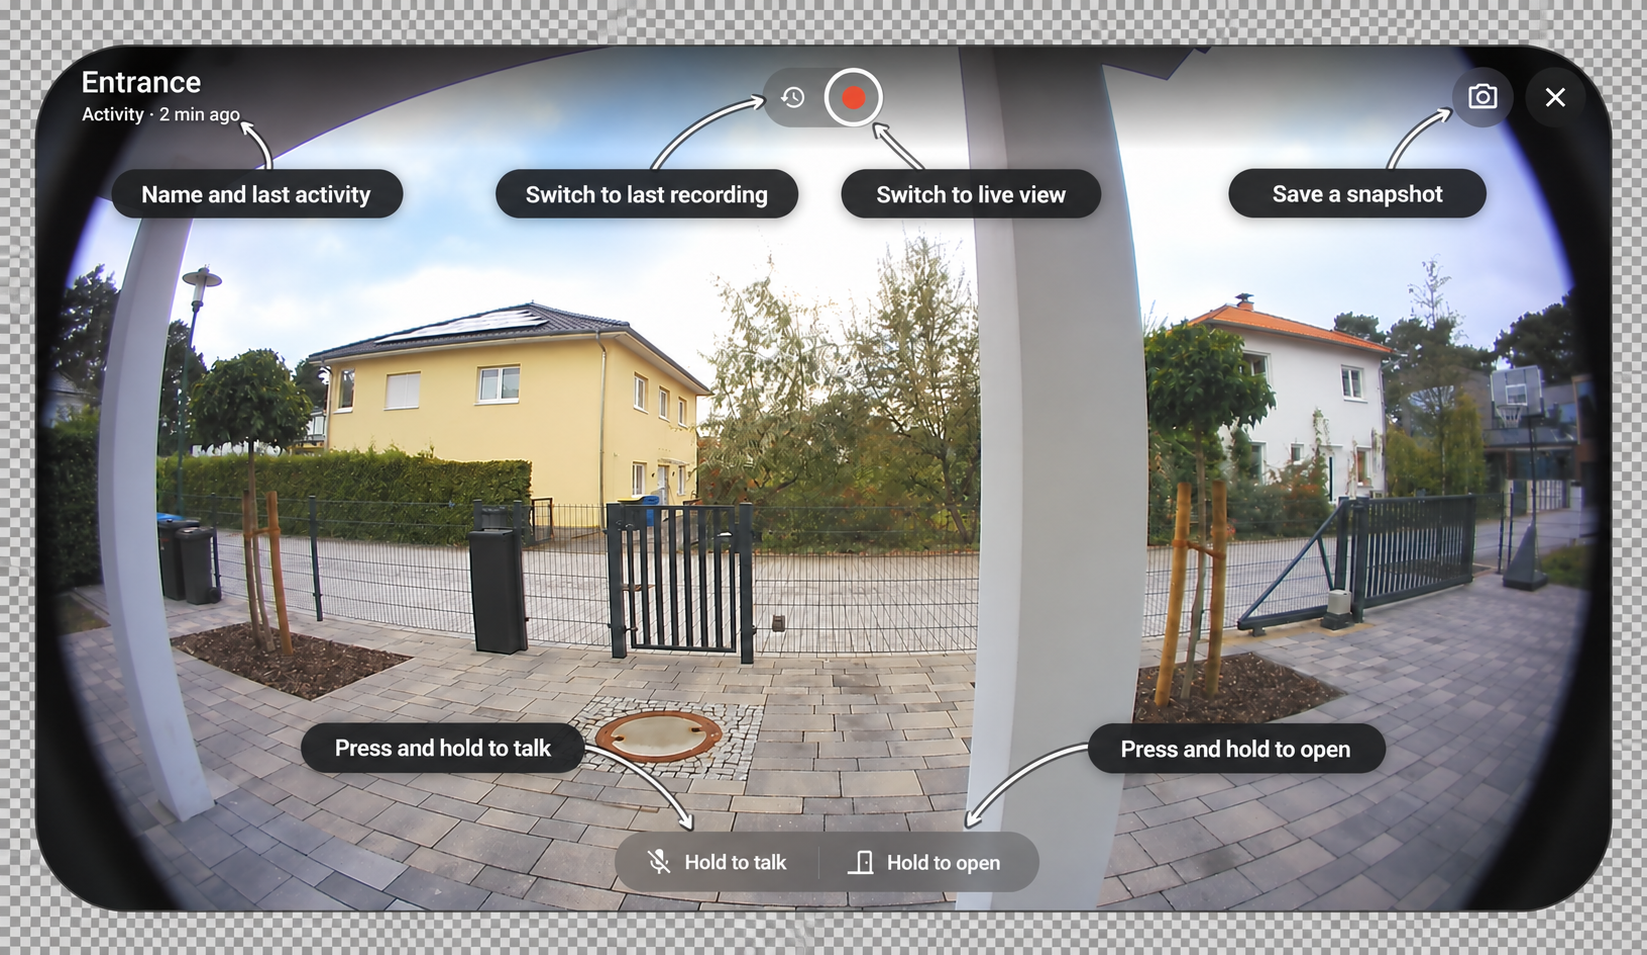
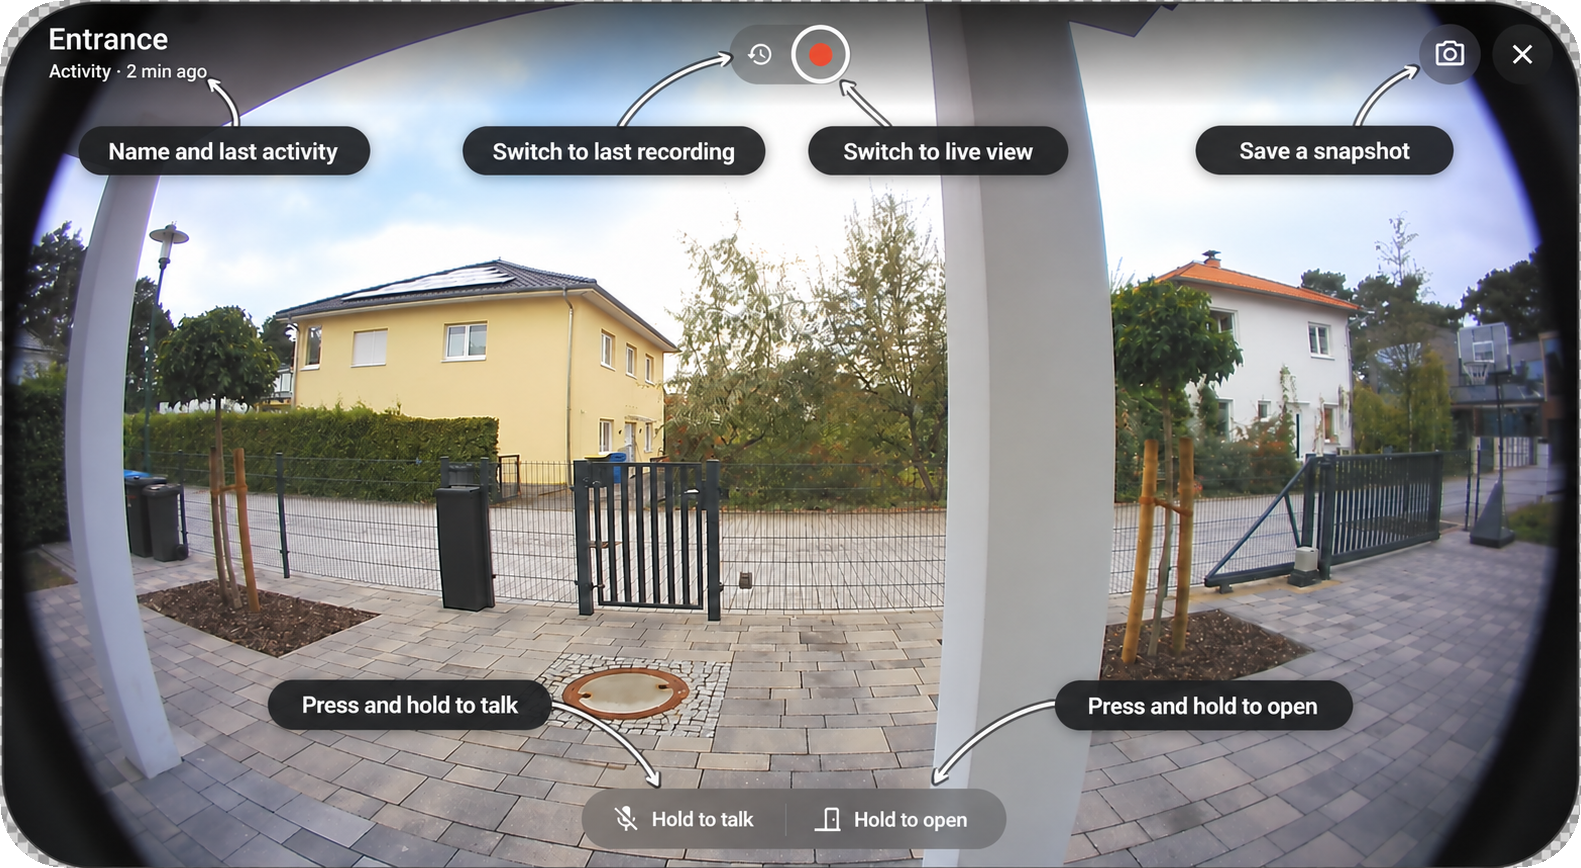
Fix README hero transparency

diff --git a/docs/images/README.md b/docs/images/README.md
@@ -12,7 +12,8 @@ arrows, and rounded viewer framing around the current combined control rails.
 
 The labels identify the actual controls in the captured viewer: camera name and
 activity, recording and Live switching, snapshots, talkback, and door access.
-The rounded viewer is presented against a neutral checkerboard surround.
+The viewer is tightly cropped to its rounded boundary, with transparent pixels
+outside the four curved corners.
 
 `ring-view-modes.png` and `ring-view-annotations.png` are retained as source
 assets for the earlier documentation image and are not used by the current
